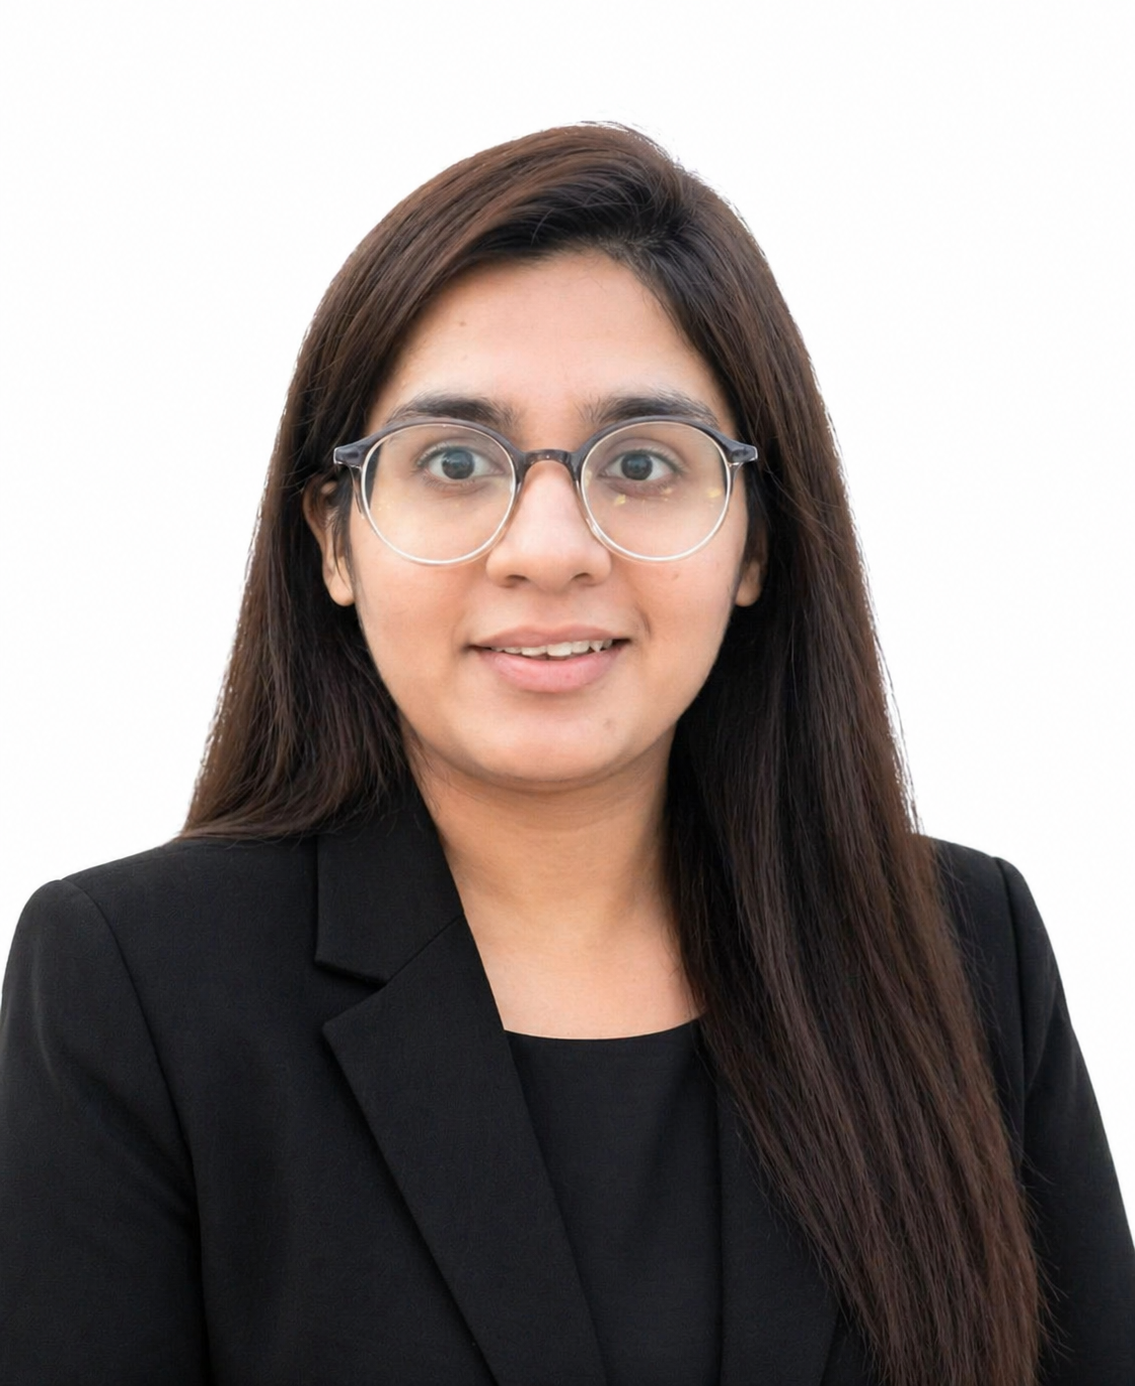
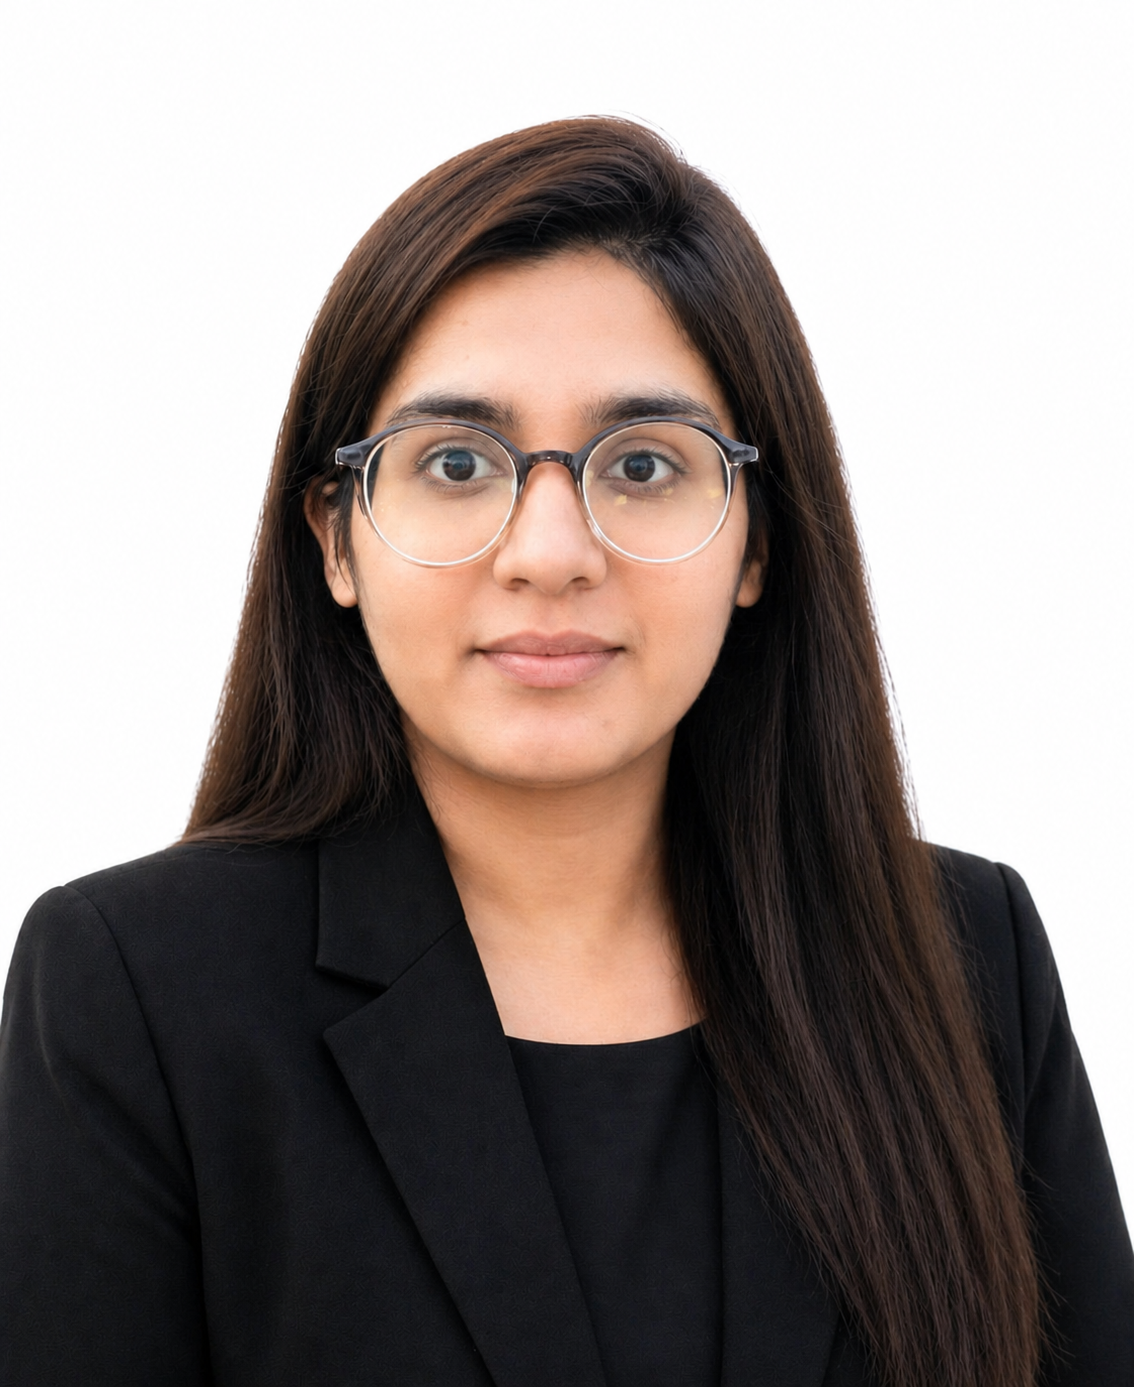
chng

diff --git a/docs/portfolio/index.md b/docs/portfolio/index.md
@@ -5,32 +5,36 @@ description: Production AI systems built for online marketplaces — pricing int
 
 # Featured Projects
 
-Production AI systems I've designed and built — each solving a real problem that marketplace businesses face every day. Every project is end-to-end: problem framing, model selection, production API, monitoring, and evaluation.
+Production AI systems I've designed and built end-to-end — problem framing, model selection, production API, monitoring, and evaluation.
 
-<div class="grid cards" markdown>
+---
 
-- :material-tag-check:{ .lg .middle } [Pricing Intelligence: Detecting Misleading Listing Prices Across 5 Markets](projects/project-1.md)
+### :material-tag-check: Pricing Intelligence — Detecting Misleading Listing Prices Across 5 Markets
 
-  ***
+Fine-tuned transformer classifier that automatically flags conditional and misleading prices in marketplace listings — 20x faster and 5x cheaper than using an LLM, at 90–95% accuracy across 5 markets and 6 languages.
 
-  Fine-tuned transformer classifier that automatically flags conditional and misleading prices in marketplace listings — 20x faster and 5x cheaper than using an LLM, at 90–95% accuracy across 5 markets and 6 languages.
+`DeBERTa` `FastAPI` `AWS Bedrock` `Datadog`
 
-  **Stack**: `DeBERTa` `FastAPI` `AWS Bedrock` `Datadog`
+[Read the full case study](projects/project-1.md)
 
-- :material-text-box-edit:{ .lg .middle } [Listing Description Generator: AI Content That Sellers Actually Keep](projects/project-2.md)
+---
 
-  ***
+### :material-text-box-edit: Listing Description Generator — AI Content That Sellers Actually Keep
 
-  LLM pipeline that writes complete listing descriptions from structured data, with locale-aware prompts and a closed-loop evaluation system that measures real seller adoption — not just output quality in isolation.
+LLM pipeline that writes complete listing descriptions from structured data, with locale-aware prompts and a closed-loop evaluation system that measures real seller adoption — not just output quality in isolation.
 
-  **Stack**: `Claude Haiku` `Streamlit` `AWS Bedrock` `Plotly`
+`Claude Haiku` `Streamlit` `AWS Bedrock` `Plotly`
 
-- :material-phone-in-talk:{ .lg .middle } [Call Intelligence Pipeline: From Sales Call to Structured Summary in 60 Seconds](projects/project-3.md)
+[Read the full case study](projects/project-2.md)
 
-  ***
+---
 
-  End-to-end speech pipeline that transcribes calls, attributes speakers, and extracts action items — delivering a structured summary in under 60 seconds. Built for sales teams that can't afford to lose what was said on a call.
+### :material-phone-in-talk: Call Intelligence Pipeline — From Sales Call to Structured Summary in 60 Seconds
 
-  **Stack**: `Whisper` `SpeechBrain` `Claude` `Twilio`
+End-to-end speech pipeline that transcribes calls, attributes speakers, and extracts action items — delivering a structured summary in under 60 seconds, straight to your CRM or WhatsApp.
 
-</div>
+`Whisper` `SpeechBrain` `Claude` `Twilio`
+
+[Read the full case study](projects/project-3.md)
+
+---

diff --git a/docs/index.md b/docs/index.md
@@ -77,7 +77,7 @@ If you haven't built anything yet, I help you figure out what's worth building f
 
   ***
 
-  End-to-end speech pipeline that transcribes sales calls, attributes speakers, extracts action items, and delivers structured summaries in under 60 seconds — directly to WhatsApp or your CRM.
+  Sales calls are your richest intent signal — and most businesses throw that data away. I extract who was interested, what was said, and what was promised, then feed it back into your lead scoring and follow-up automation so every call makes the next action smarter.
 
 - :material-brain:{ .lg .middle } **Intent Classification**
 
